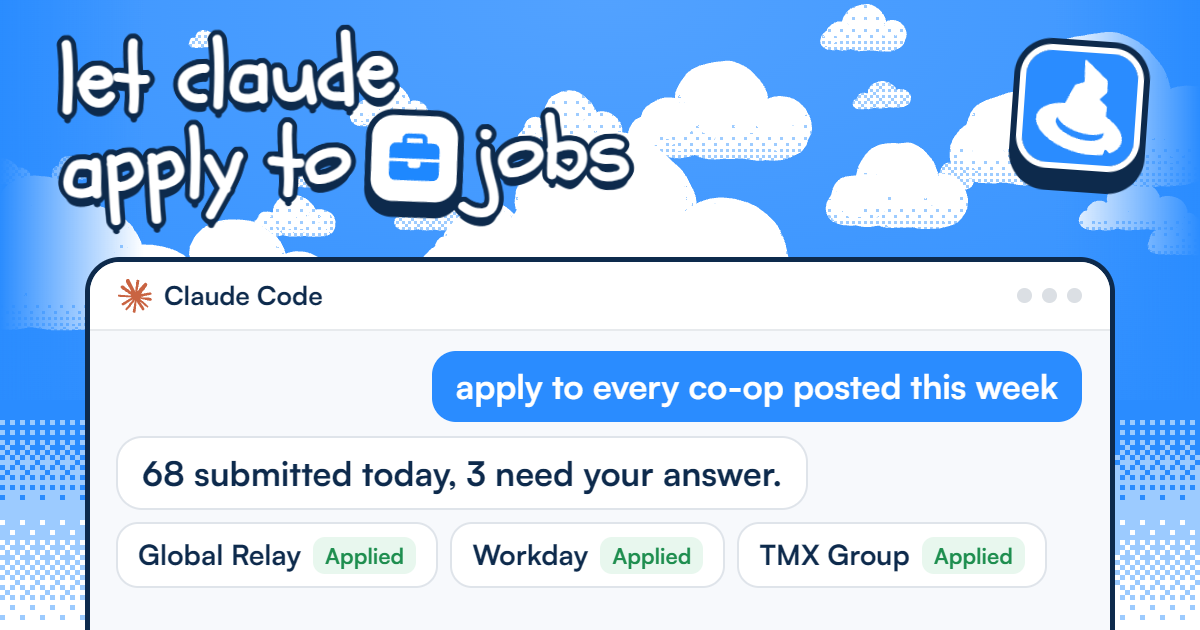
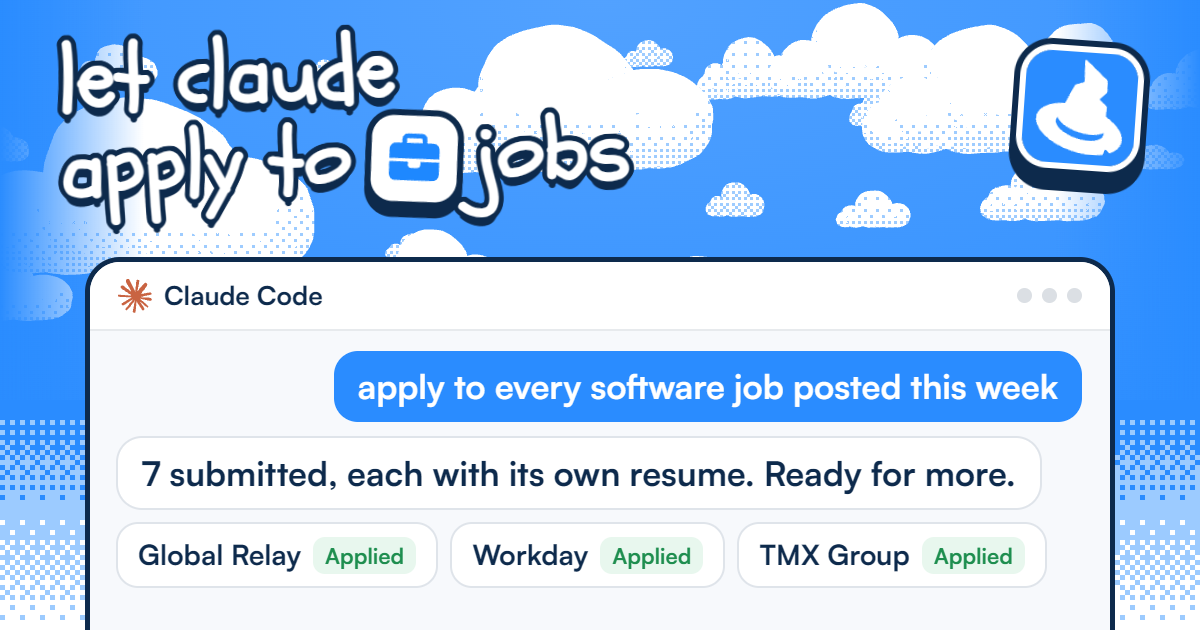
apply page: no personal ledger or numbers, as many as you want a day, and the repo link under install

diff --git a/site/apps/web/src/landing/apply/ApplyPage.tsx b/site/apps/web/src/landing/apply/ApplyPage.tsx
@@ -1,7 +1,7 @@
 import { useEffect, useState, type ReactNode } from 'react'
 import { FontAwesomeIcon } from '@fortawesome/react-fontawesome'
 import { faGithub } from '@fortawesome/free-brands-svg-icons'
-import { faArrowRight, faCheck, faEnvelope, faFileLines, faXmark } from '@fortawesome/free-solid-svg-icons'
+import { faCheck, faEnvelope, faFileLines, faXmark } from '@fortawesome/free-solid-svg-icons'
 import { SiteHeader } from '../SiteHeader'
 import { SiteFooter } from '../SiteFooter'
 import { ClayClouds } from '../ClayClouds'
@@ -13,11 +13,6 @@ import {
   APPLY_COMPARE,
   APPLY_FAQ,
   APPLY_GITHUB_URL,
-  APPLY_LEDGER_DAYS,
-  APPLY_LEDGER_FROM,
-  APPLY_LEDGER_TO,
-  APPLY_LEDGER_URL,
-  APPLY_NUMBERS,
   APPLY_STEPS,
   APPLY_TITLE,
 } from './applyContent'
@@ -85,13 +80,13 @@ function Hero() {
           <InstallCard id="installTop" />
         </div>
         <a
-          href={APPLY_LEDGER_URL}
+          href={APPLY_GITHUB_URL}
           target="_blank"
           rel="noopener noreferrer"
-          className="relative z-30 mt-5 inline-flex items-center gap-1.5 text-[15px] font-bold text-white/90 underline decoration-white/40 underline-offset-4 transition-colors hover:text-white hover:decoration-white"
+          className="relative z-30 mt-5 inline-flex items-center gap-2 text-[15px] font-bold text-white/90 underline decoration-white/40 underline-offset-4 transition-colors hover:text-white hover:decoration-white"
         >
-          See the live ledger
-          <FontAwesomeIcon icon={faArrowRight} className="text-[12px]" />
+          <FontAwesomeIcon icon={faGithub} className="text-[16px]" />
+          github.com/matthewdonsemail-lab/log-apply
         </a>
         <div className="mt-14 w-full md:mt-20">
           <ApplyDemo />
@@ -266,100 +261,6 @@ function Steps() {
   )
 }
 
-const DAY_MS = 24 * 60 * 60 * 1000
-const MONTHS = ['Jan', 'Feb', 'Mar', 'Apr', 'May', 'Jun', 'Jul', 'Aug', 'Sep', 'Oct', 'Nov', 'Dec']
-
-function ledgerWeeks() {
-  const start = Date.parse(`${APPLY_LEDGER_FROM}T00:00:00Z`)
-  const end = Date.parse(`${APPLY_LEDGER_TO}T00:00:00Z`)
-  const weeks: { date: string; count: number }[][] = []
-  for (let time = start; time <= end; time += DAY_MS) {
-    const date = new Date(time).toISOString().slice(0, 10)
-    const index = Math.floor((time - start) / DAY_MS)
-    if (index % 7 === 0) weeks.push([])
-    weeks[weeks.length - 1].push({ date, count: APPLY_LEDGER_DAYS[date] ?? 0 })
-  }
-  return weeks
-}
-
-function shade(count: number) {
-  if (count === 0) return 'bg-white/[0.06]'
-  if (count < 3) return 'bg-[#2A8CFF]/35'
-  if (count < 8) return 'bg-[#2A8CFF]/60'
-  if (count < 20) return 'bg-[#2A8CFF]/85'
-  return 'bg-[#7BE3A4]'
-}
-
-function labelOf(date: string) {
-  const [, month, day] = date.split('-')
-  return `${MONTHS[Number(month) - 1]} ${Number(day)}`
-}
-
-function Receipts() {
-  const weeks = ledgerWeeks()
-  const stats = [
-    { value: `${APPLY_NUMBERS.applied}+`, label: 'applications' },
-    { value: String(APPLY_NUMBERS.companies), label: 'companies' },
-    { value: String(APPLY_NUMBERS.bestDay), label: 'in a single day' },
-  ]
-  return (
-    <section id="receipts" aria-label="Receipts" className={`${SECTION} bg-[#F7FAFD]`}>
-      <div className={INNER}>
-        <SectionHead
-          title={
-            <>
-              Receipts, not <span className={STICKER}>promises.</span>
-            </>
-          }
-          lede={`Built for a real job search, by a builder with a full-time job. log apply went after every opening they qualified for: ${APPLY_NUMBERS.applied} applications so far, ${APPLY_NUMBERS.bestDay} in a single day, each with its own resume and cover letter. Every one is on a public ledger, with the exact documents that went out.`}
-        />
-        <div className="w-full overflow-hidden rounded-3xl bg-[#0B1626] p-2 text-white shadow-[0_4px_0_#061a33]">
-          <ul className="m-0 grid list-none grid-cols-3 gap-2 p-0">
-            {stats.map((stat) => (
-              <li key={stat.label} className="flex flex-col items-center rounded-2xl bg-white/[0.05] px-2 py-5 text-center md:py-7">
-                <span className="text-[clamp(1.9rem,1.2rem+3vw,3.5rem)] font-black leading-none text-white">{stat.value}</span>
-                <span className="mt-2 text-[12px] font-bold text-white/55 md:text-[15px]">{stat.label}</span>
-              </li>
-            ))}
-          </ul>
-          <div className="px-4 pb-5 pt-6 md:px-8 md:pb-7">
-            <p className="text-center text-[14px] font-bold text-white/70">Applications per day, from the public ledger</p>
-            <div className="mx-auto mt-4 flex w-full max-w-[26rem] gap-[5px] sm:gap-1.5">
-              {weeks.map((week) => (
-                <div key={week[0].date} className="flex min-w-0 flex-1 flex-col gap-[5px] sm:gap-1.5">
-                  {week.map((day) => (
-                    <span key={day.date} title={`${labelOf(day.date)}: ${day.count} sent`} className={`block aspect-square w-full rounded-[4px] sm:rounded-md ${shade(day.count)}`} />
-                  ))}
-                </div>
-              ))}
-            </div>
-            <div className="mx-auto mt-3 flex w-full max-w-[26rem] justify-between text-[11px] font-bold text-white/45">
-              <span>{labelOf(APPLY_LEDGER_FROM)}</span>
-              <span className="flex items-center gap-1.5">
-                less
-                {[0, 1, 5, 10, 40].map((count) => (
-                  <i key={count} className={`size-2.5 rounded-[3px] ${shade(count)}`} />
-                ))}
-                more
-              </span>
-              <span>{labelOf(APPLY_LEDGER_TO)}</span>
-            </div>
-          </div>
-        </div>
-        <a
-          href={APPLY_LEDGER_URL}
-          target="_blank"
-          rel="noopener noreferrer"
-          className="mt-8 inline-flex items-center gap-1.5 text-[16px] font-bold text-[#2A8CFF] underline decoration-[#2A8CFF]/30 underline-offset-4 transition-colors hover:decoration-[#2A8CFF]"
-        >
-          Open the live ledger
-          <FontAwesomeIcon icon={faArrowRight} className="text-[13px]" />
-        </a>
-      </div>
-    </section>
-  )
-}
-
 function FinalInstall() {
   return (
     <section id="install" aria-label="Install log apply" className={`${SECTION} bg-white pt-4 md:pt-6`}>
@@ -401,7 +302,6 @@ export function ApplyPage() {
       <SiteHeader cta={{ href: '#installTop', label: 'Install' }} />
       <Hero />
       <Steps />
-      <Receipts />
       <div className="quick-answers w-full bg-white pt-8 md:pt-12">
         <StoryFaq title="log apply: quick answers" items={APPLY_FAQ} />
       </div>

diff --git a/site/apps/web/src/landing/apply/applyContent.ts b/site/apps/web/src/landing/apply/applyContent.ts
@@ -5,10 +5,7 @@ export const APPLY_PATH = '/apply'
 export const APPLY_TITLE = applyShare.title
 export const APPLY_DESCRIPTION = applyShare.description
 export const APPLY_GITHUB_URL = 'https://github.com/matthewdonsemail-lab/log-apply'
-export const APPLY_LEDGER_URL = 'https://coop-ledger-five.vercel.app'
 export const APPLY_AGENT_LINE = 'set up log apply - https://log.listeningkit.com/apply.txt'
-
-export const APPLY_NUMBERS = { applied: 206, companies: 112, bestDay: 68 }
 
 
 export const APPLY_INSTALL = ['/plugin marketplace add matthewdonsemail-lab/log-apply', '/plugin install log-apply@log-apply', '/apply-setup']
@@ -18,7 +15,7 @@ export const APPLY_TERMINAL = ['npx github:matthewdonsemail-lab/log-apply setup'
 export const APPLY_USAGE = ['/apply <posting url>', '/apply software jobs Vancouver', '/loop /apply']
 
 export const APPLY_ASK = 'apply to every software job posted this week'
-export const APPLY_DONE = `${APPLY_NUMBERS.bestDay} submitted today, 3 need your answer.`
+export const APPLY_DONE = '7 submitted, each with its own resume. Ready for more.'
 
 export type DemoRow = { company: string; role: string; city: string; via: 'Workday' | 'Greenhouse' }
 
@@ -46,7 +43,7 @@ export const APPLY_STEPS = [
   {
     number: '03',
     title: 'Track',
-    body: 'Every application lands on a public ledger, with the exact resume and cover letter that went out.',
+    body: 'Every application lands on your own ledger, with the exact resume and cover letter that went out.',
   },
 ]
 
@@ -58,7 +55,7 @@ export const APPLY_COMPARE = {
   },
   with: {
     label: 'With log apply',
-    headline: `${APPLY_NUMBERS.bestDay} in a day`,
+    headline: 'As many as you want in a day',
     points: ['A one-page resume and cover letter for each job', 'Workday and Greenhouse filled in your own browser', 'Codes and links read from your inbox', 'A public ledger with every resume sent'],
   },
 }
@@ -82,21 +79,4 @@ export const APPLY_FAQ: FaqItem[] = [
   },
 ]
 
-export const APPLY_LEDGER_DAYS: Record<string, number> = {
-  '2026-09-15': 3,
-  '2026-09-16': 9,
-  '2026-09-17': 5,
-  '2026-09-18': 1,
-  '2026-10-09': 1,
-  '2026-10-13': 2,
-  '2026-10-14': 6,
-  '2026-10-15': 11,
-  '2026-10-20': 5,
-  '2026-10-21': 10,
-  '2026-10-27': 5,
-  '2026-11-17': 56,
-  '2026-11-18': 68,
-}
 
-export const APPLY_LEDGER_FROM = '2026-09-13'
-export const APPLY_LEDGER_TO = '2026-11-21'

diff --git a/site/apps/web/src/landing/devlog/prerender.tsx b/site/apps/web/src/landing/devlog/prerender.tsx
@@ -8,7 +8,7 @@ import { SITE_PAGES, SITE_PLATFORMS } from '../useCases/sitePages'
 import { QUICK_ANSWERS } from '../useCases/quickAnswers'
 import { PLATFORMS } from '../PlatformSuite'
 import { UPDATED, applySchema, devlogIndexSchema, homeSchema, mcpSchema, platformSchema } from '../structuredData'
-import { APPLY_COMPARE, APPLY_DESCRIPTION, APPLY_FAQ, APPLY_GITHUB_URL, APPLY_INSTALL, APPLY_LEDGER_URL, APPLY_PATH, APPLY_STEPS, APPLY_TITLE, APPLY_USAGE } from '../apply/applyContent'
+import { APPLY_COMPARE, APPLY_DESCRIPTION, APPLY_FAQ, APPLY_GITHUB_URL, APPLY_INSTALL, APPLY_PATH, APPLY_STEPS, APPLY_TITLE, APPLY_USAGE } from '../apply/applyContent'
 import { MCP_CLIENTS, MCP_DESCRIPTION, MCP_FAQ, MCP_INSTALL, MCP_PATH, MCP_PLATFORMS, MCP_STEPS, MCP_TITLE } from '../mcp/mcpContent'
 import { USE_CASES } from '../useCases/useCaseCatalog'
 
@@ -303,7 +303,6 @@ export function prerenderedPages(): PrerenderedPage[] {
       '',
       `Agent setup instructions: ${SITE}/apply.txt`,
       '',
-      `The public ledger of every application: ${APPLY_LEDGER_URL}`,
       '',
       '## log apply: quick answers',
       '',
@@ -327,9 +326,6 @@ export function prerenderedPages(): PrerenderedPage[] {
         <pre>
           <code>{APPLY_INSTALL.join('\n')}</code>
         </pre>
-        <p>
-          The public ledger of every application: <a href={APPLY_LEDGER_URL}>{APPLY_LEDGER_URL}</a>
-        </p>
         <section className="quick-answers">
           <h2>log apply: quick answers</h2>
           {APPLY_FAQ.map((item) => (
